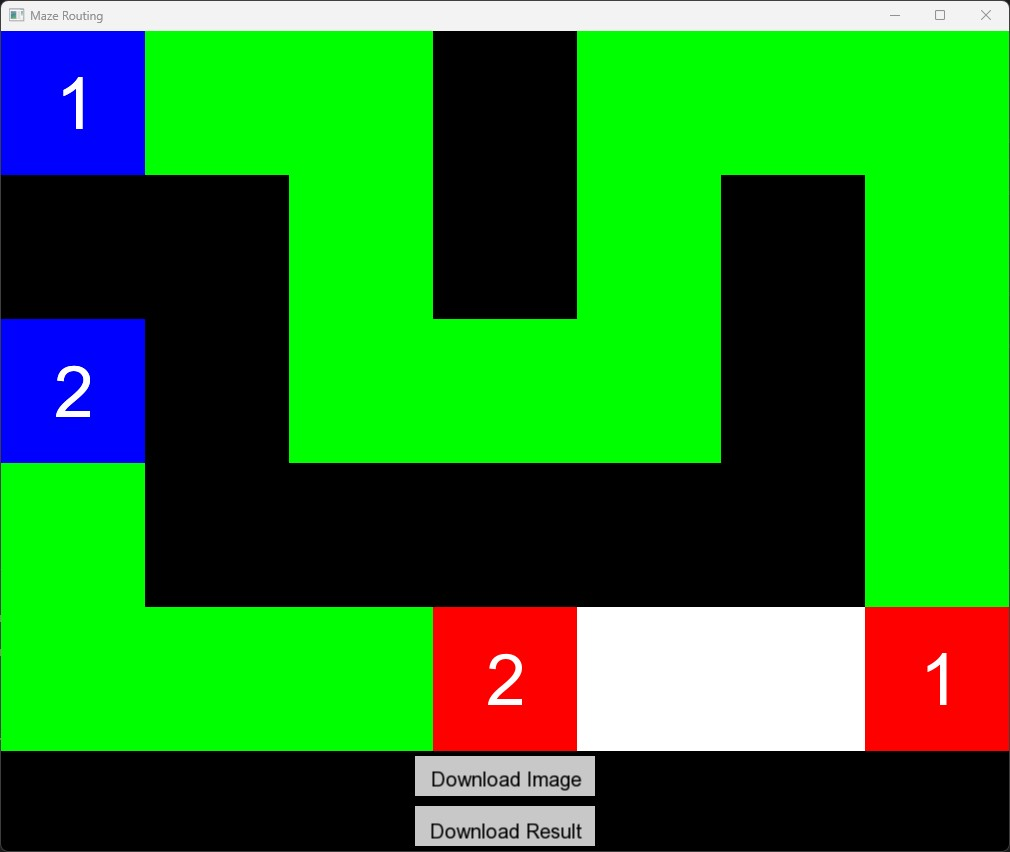
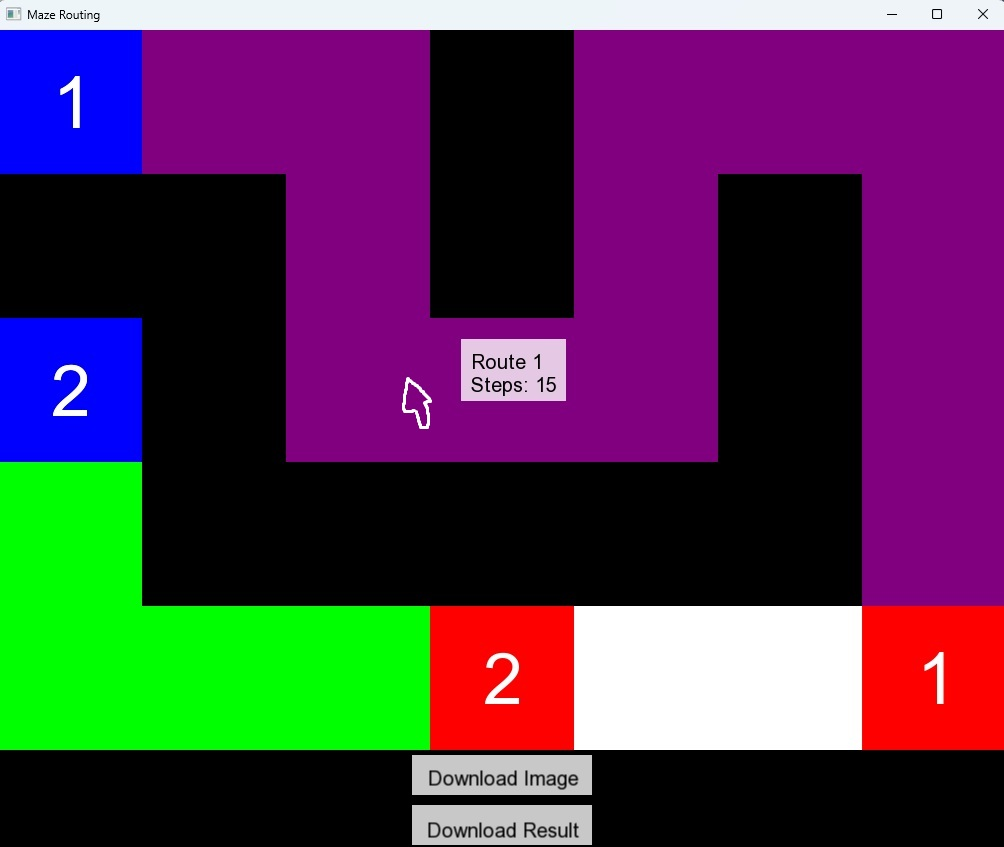
Site updated: 2025-06-03 00:21:32

diff --git a/2025/06/02/Maze-Routing-GUI/index.html b/2025/06/02/Maze-Routing-GUI/index.html
@@ -20,9 +20,9 @@
   
   <meta property="og:type" content="article" />
   
-  <meta property="og:url" content="https://davidtseng2000.github.io/2025/06/02/Maze%20Routing%20GUI/index.html" />
+  <meta property="og:url" content="https://davidtseng2000.github.io/2025/06/02/Maze-Routing-GUI/index.html" />
   
-  <meta property="og:image" content="/img/maze_1.png" />
+  <meta property="og:image" content="/img/maze.png" />
   
   <meta property="og:article:published_time" content="2025-06-01T16:00:00.000Z" />
   
@@ -163,11 +163,11 @@
 <h3 id="✨-功能特點"><a href="#✨-功能特點" class="headerlink" title="✨ 功能特點"></a>✨ 功能特點</h3><ul>
 <li>迷宮問題的可視化顯示</li>
 </ul>
-<p><br><br><img src="./img/maze_1.jpg" width="50%"></p>
+<p><br><br><img src="../../../img/maze_1.jpg" width="50%"></p>
 <ul>
 <li>互動式路徑懸停效果，顯示路徑信息</li>
 </ul>
-<p><br><br><img src="./img/maze_1.jpg" width="50%"></p>
+<p><br><br><img src="../../../img/maze_1.jpg" width="50%"></p>
 <ul>
 <li>支持下載迷宮截圖</li>
 <li>支持下載路徑結果</li>

diff --git a/projects/index.html b/projects/index.html
@@ -144,10 +144,10 @@
         
             
             <article class="post-list-item">
-                <a href="/2025/06/02/Maze%20Routing%20GUI/">
+                <a href="/2025/06/02/Maze-Routing-GUI/">
                     
                     <div class="cover-img">
-                        <img src="/img/maze_1.png" alt="">
+                        <img src="/img/maze.png" alt="">
                     </div>
                     
                     <div class="content">

diff --git a/archives/2025/06/index.html b/archives/2025/06/index.html
@@ -143,10 +143,10 @@
     <div class="post-list archives">
         
         <article class="post-list-item">
-            <a href="/2025/06/02/Maze%20Routing%20GUI/">
+            <a href="/2025/06/02/Maze-Routing-GUI/">
                 
                 <div class="cover-img">
-                    <img src="/img/maze_1.png" alt="">
+                    <img src="/img/maze.png" alt="">
                 </div>
                 
                 <div class="content">

diff --git a/archives/2025/index.html b/archives/2025/index.html
@@ -143,10 +143,10 @@
     <div class="post-list archives">
         
         <article class="post-list-item">
-            <a href="/2025/06/02/Maze%20Routing%20GUI/">
+            <a href="/2025/06/02/Maze-Routing-GUI/">
                 
                 <div class="cover-img">
-                    <img src="/img/maze_1.png" alt="">
+                    <img src="/img/maze.png" alt="">
                 </div>
                 
                 <div class="content">

diff --git a/archives/index.html b/archives/index.html
@@ -143,10 +143,10 @@
     <div class="post-list archives">
         
         <article class="post-list-item">
-            <a href="/2025/06/02/Maze%20Routing%20GUI/">
+            <a href="/2025/06/02/Maze-Routing-GUI/">
                 
                 <div class="cover-img">
-                    <img src="/img/maze_1.png" alt="">
+                    <img src="/img/maze.png" alt="">
                 </div>
                 
                 <div class="content">

diff --git a/categories/Projects/index.html b/categories/Projects/index.html
@@ -143,10 +143,10 @@
     <div class="post-list archives">
         
         <article class="post-list-item">
-            <a href="/2025/06/02/Maze%20Routing%20GUI/">
+            <a href="/2025/06/02/Maze-Routing-GUI/">
                 
                 <div class="cover-img">
-                    <img src="/img/maze_1.png" alt="">
+                    <img src="/img/maze.png" alt="">
                 </div>
                 
                 <div class="content">

diff --git a/tags/EDA/index.html b/tags/EDA/index.html
@@ -143,10 +143,10 @@
     <div class="post-list archives">
         
         <article class="post-list-item">
-            <a href="/2025/06/02/Maze%20Routing%20GUI/">
+            <a href="/2025/06/02/Maze-Routing-GUI/">
                 
                 <div class="cover-img">
-                    <img src="/img/maze_1.png" alt="">
+                    <img src="/img/maze.png" alt="">
                 </div>
                 
                 <div class="content">

diff --git a/tags/maze-routing/index.html b/tags/maze-routing/index.html
@@ -143,10 +143,10 @@
     <div class="post-list archives">
         
         <article class="post-list-item">
-            <a href="/2025/06/02/Maze%20Routing%20GUI/">
+            <a href="/2025/06/02/Maze-Routing-GUI/">
                 
                 <div class="cover-img">
-                    <img src="/img/maze_1.png" alt="">
+                    <img src="/img/maze.png" alt="">
                 </div>
                 
                 <div class="content">

diff --git a/index.html b/index.html
@@ -139,10 +139,10 @@
     <div class="post-list">
         
         <article class="post-list-item">
-            <a href="/2025/06/02/Maze%20Routing%20GUI/">
+            <a href="/2025/06/02/Maze-Routing-GUI/">
                 
                 <div class="cover-img">
-                    <img src="/img/maze_1.png" alt="">
+                    <img src="/img/maze.png" alt="">
                 </div>
                 
                 <div class="content">

diff --git a/2025/05/13/Desktop-Music-Player/index.html b/2025/05/13/Desktop-Music-Player/index.html
@@ -210,7 +210,7 @@
 
     <div class="container post-prev-next">
         
-        <a href="/2025/06/02/Maze%20Routing%20GUI/" class="next">
+        <a href="/2025/06/02/Maze-Routing-GUI/" class="next">
             <div>
                 <div class="text">
                     <p class="label">Next</p>
